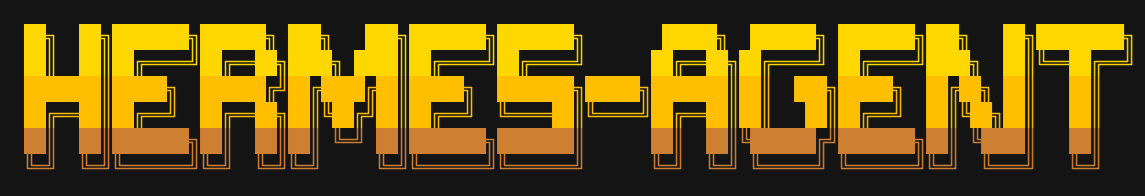
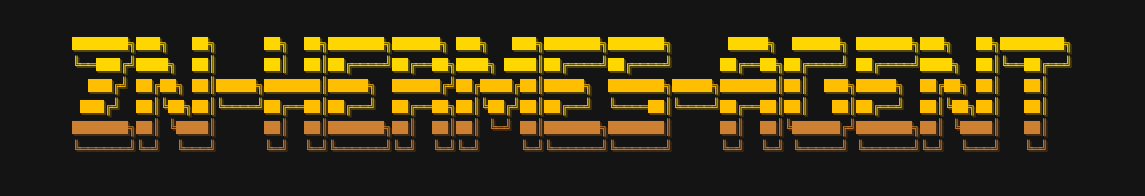
cpq-capstone-1: brand distro as ZN-HERMES-AGENT
---
upstream: null
files:
  - README.md
  - assets/banner.png
  - cli.py
  - hermes_cli/skin_engine.py
  - tests/hermes_cli/test_skin_engine.py
  - tests/test_cli_skin_integration.py
---

## Upstream
- Status: fork-only
- Branding capstone — local-only by design.

## Why carried
- This distro needs its own visible identity and attribution layer above the upstream-bound patch body.
- The README intro should state plainly that ZN-HERMES-AGENT is a personal Hermes Agent distro.
- The top of the README should also advertise whether the fork's GitHub Actions test workflow is green.

## Summary
- Keeps the distro branding layer in `README.md`.
- Rewrites the opening sentence to: `ZN-HERMES-AGENT is my personal Hermes Agent distro.` with links on `my` and `Hermes Agent`.
- Adds a GitHub Actions Tests badge immediately below the README title.
- Moves the distro attribution line to the bottom footer slot.

## Drop condition
- Drop only if this distro stops carrying its own branding.

diff --git a/cli.py b/cli.py
@@ -1629,10 +1629,10 @@ def _build_compact_banner() -> str:
     dim_color = _skin.get_color("banner_dim", "#B8860B") if _skin else "#B8860B"
 
     if skin_name == "default":
-        line1 = "⚕ NOUS HERMES - AI Agent Framework"
-        tiny_line = "⚕ NOUS HERMES"
+        line1 = "⚕ ZN-HERMES-AGENT - Personal distro"
+        tiny_line = "⚕ ZN-HERMES-AGENT"
     else:
-        agent_name = _skin.get_branding("agent_name", "Hermes Agent") if _skin else "Hermes Agent"
+        agent_name = _skin.get_branding("agent_name", "ZN-HERMES-AGENT") if _skin else "ZN-HERMES-AGENT"
         line1 = f"{agent_name} - AI Agent Framework"
         tiny_line = agent_name
 
@@ -2935,10 +2935,10 @@ class HermesCLI:
             try:
                 from hermes_cli.skin_engine import get_active_skin
                 _skin = get_active_skin()
-                label = _skin.get_branding("response_label", "⚕ Hermes")
+                label = _skin.get_branding("response_label", "⚕ ZN-Hermes")
                 _text_hex = _skin.get_color("banner_text", "#FFF8DC")
             except Exception:
-                label = "⚕ Hermes"
+                label = "⚕ ZN-Hermes"
                 _text_hex = "#FFF8DC"
             # Build a true-color ANSI escape for the response text color
             # so streamed content matches the Rich Panel appearance.
@@ -6444,11 +6444,11 @@ class HermesCLI:
                     try:
                         from hermes_cli.skin_engine import get_active_skin
                         _skin = get_active_skin()
-                        label = _skin.get_branding("response_label", "⚕ Hermes")
+                        label = _skin.get_branding("response_label", "⚕ ZN-Hermes")
                         _resp_color = _skin.get_color("response_border", "#CD7F32")
                         _resp_text = _skin.get_color("banner_text", "#FFF8DC")
                     except Exception:
-                        label = "⚕ Hermes"
+                        label = "⚕ ZN-Hermes"
                         _resp_color = "#CD7F32"
                         _resp_text = "#FFF8DC"
 
@@ -8475,7 +8475,7 @@ class HermesCLI:
                     if not _streaming_box_opened:
                         _streaming_box_opened = True
                         w = self.console.width
-                        label = " ⚕ Hermes "
+                        label = " ⚕ ZN-Hermes "
                         fill = w - 2 - len(label)
                         _cprint(f"\n{_ACCENT}╭─{label}{'─' * max(fill - 1, 0)}╮{_RST}")
                     _cprint(f"{_STREAM_PAD}{sentence.rstrip()}")
@@ -8750,11 +8750,11 @@ class HermesCLI:
                 try:
                     from hermes_cli.skin_engine import get_active_skin
                     _skin = get_active_skin()
-                    label = _skin.get_branding("response_label", "⚕ Hermes")
+                    label = _skin.get_branding("response_label", "⚕ ZN-Hermes")
                     _resp_color = _skin.get_color("response_border", "#CD7F32")
                     _resp_text = _skin.get_color("banner_text", "#FFF8DC")
                 except Exception:
-                    label = "⚕ Hermes"
+                    label = "⚕ ZN-Hermes"
                     _resp_color = "#CD7F32"
                     _resp_text = "#FFF8DC"
 
@@ -9111,10 +9111,10 @@ class HermesCLI:
         try:
             from hermes_cli.skin_engine import get_active_skin
             _welcome_skin = get_active_skin()
-            _welcome_text = _welcome_skin.get_branding("welcome", "Welcome to Hermes Agent! Type your message or /help for commands.")
+            _welcome_text = _welcome_skin.get_branding("welcome", "Welcome to ZN-HERMES-AGENT — my personal Hermes distro with a few carried features and fixes I plan to upstream once they get merged. Type your message or /help for commands.")
             _welcome_color = _welcome_skin.get_color("banner_text", "#FFF8DC")
         except Exception:
-            _welcome_text = "Welcome to Hermes Agent! Type your message or /help for commands."
+            _welcome_text = "Welcome to ZN-HERMES-AGENT — my personal Hermes distro with a few carried features and fixes I plan to upstream once they get merged. Type your message or /help for commands."
             _welcome_color = "#FFF8DC"
         self._console_print(f"[{_welcome_color}]{_welcome_text}[/]")
         # Show a random tip to help users discover features

diff --git a/hermes_cli/skin_engine.py b/hermes_cli/skin_engine.py
@@ -67,7 +67,7 @@ All fields are optional. Missing values inherit from the ``default`` skin.
       agent_name: "Hermes Agent"          # Banner title, status display
       welcome: "Welcome message"          # Shown at CLI startup
       goodbye: "Goodbye! ⚕"              # Shown on exit
-      response_label: " ⚕ Hermes "       # Response box header label
+      response_label: " ⚕ ZN-Hermes "    # Response box header label
       prompt_symbol: "❯ "                # Input prompt symbol
       help_header: "(^_^)? Commands"      # /help header text
 
@@ -186,14 +186,20 @@ _BUILTIN_SKINS: Dict[str, Dict[str, Any]] = {
             # Empty = use hardcoded defaults in display.py
         },
         "branding": {
-            "agent_name": "Hermes Agent",
-            "welcome": "Welcome to Hermes Agent! Type your message or /help for commands.",
+            "agent_name": "ZN-HERMES-AGENT",
+            "welcome": "Welcome to ZN-HERMES-AGENT — my personal Hermes distro with a few carried features and fixes I plan to upstream once they get merged. Type your message or /help for commands.",
             "goodbye": "Goodbye! ⚕",
-            "response_label": " ⚕ Hermes ",
+            "response_label": " ⚕ ZN-Hermes ",
             "prompt_symbol": "❯ ",
             "help_header": "(^_^)? Available Commands",
         },
         "tool_prefix": "┊",
+        "banner_logo": """[bold #FFD700]███████╗███╗   ██╗      ██╗  ██╗███████╗██████╗ ███╗   ███╗███████╗███████╗       █████╗  ██████╗ ███████╗███╗   ██╗████████╗[/]
+[bold #FFD700]╚══███╔╝████╗  ██║      ██║  ██║██╔════╝██╔══██╗████╗ ████║██╔════╝██╔════╝      ██╔══██╗██╔════╝ ██╔════╝████╗  ██║╚══██╔══╝[/]
+[#FFBF00]  ███╔╝ ██╔██╗ ██║█████╗███████║█████╗  ██████╔╝██╔████╔██║█████╗  ███████╗█████╗███████║██║  ███╗█████╗  ██╔██╗ ██║   ██║[/]
+[#FFBF00] ███╔╝  ██║╚██╗██║╚════╝██╔══██║██╔══╝  ██╔══██╗██║╚██╔╝██║██╔══╝  ╚════██║╚════╝██╔══██║██║   ██║██╔══╝  ██║╚██╗██║   ██║[/]
+[#CD7F32]███████╗██║ ╚████║      ██║  ██║███████╗██║  ██║██║ ╚═╝ ██║███████╗███████║      ██║  ██║╚██████╔╝███████╗██║ ╚████║   ██║[/]
+[#CD7F32]╚══════╝╚═╝  ╚═══╝      ╚═╝  ╚═╝╚══════╝╚═╝  ╚═╝╚═╝     ╚═╝╚══════╝╚══════╝      ╚═╝  ╚═╝ ╚═════╝ ╚══════╝╚═╝  ╚═══╝   ╚═╝[/]""",
     },
     "ares": {
         "name": "ares",

diff --git a/tests/test_cli_skin_integration.py b/tests/test_cli_skin_integration.py
@@ -92,14 +92,15 @@ class TestCliSkinPromptIntegration:
 
 
 class TestCompactBannerSkinIntegration:
-    def test_default_compact_banner_keeps_legacy_nous_hermes_branding(self):
+    def test_default_compact_banner_uses_default_skin_branding(self):
         set_active_skin("default")
 
         with patch("cli.shutil.get_terminal_size", return_value=SimpleNamespace(columns=90)), \
              patch("cli.format_banner_version_label", return_value="Hermes Agent v0.1.0 (test)"):
             banner = _build_compact_banner()
 
-        assert "NOUS HERMES" in banner
+        assert "ZN-HERMES-AGENT" in banner
+        assert "NOUS HERMES" not in banner
 
     def test_poseidon_compact_banner_uses_skin_branding_instead_of_nous_hermes(self):
         set_active_skin("poseidon")

diff --git a/tests/hermes_cli/test_skin_engine.py b/tests/hermes_cli/test_skin_engine.py
@@ -37,7 +37,7 @@ class TestSkinConfig:
     def test_get_branding_with_fallback(self):
         from hermes_cli.skin_engine import load_skin
         skin = load_skin("default")
-        assert skin.get_branding("agent_name") == "Hermes Agent"
+        assert skin.get_branding("agent_name") == "ZN-HERMES-AGENT"
         assert skin.get_branding("nonexistent", "fallback") == "fallback"
 
     def test_get_spinner_wings_empty_for_default(self):

diff --git a/README.md b/README.md
@@ -1,17 +1,21 @@
 <p align="center">
-  <img src="assets/banner.png" alt="Hermes Agent" width="100%">
+  <img src="assets/banner.png" alt="ZN-HERMES-AGENT" width="100%">
 </p>
 
-# Hermes Agent ☤
+# ZN-HERMES-AGENT ☤
+
+[![Tests](https://github.com/xinbenlv/hermes-agent/actions/workflows/tests.yml/badge.svg?branch=main)](https://github.com/xinbenlv/hermes-agent/actions/workflows/tests.yml)
 
 <p align="center">
   <a href="https://hermes-agent.nousresearch.com/docs/"><img src="https://img.shields.io/badge/Docs-hermes--agent.nousresearch.com-FFD700?style=for-the-badge" alt="Documentation"></a>
   <a href="https://discord.gg/NousResearch"><img src="https://img.shields.io/badge/Discord-5865F2?style=for-the-badge&logo=discord&logoColor=white" alt="Discord"></a>
   <a href="https://github.com/NousResearch/hermes-agent/blob/main/LICENSE"><img src="https://img.shields.io/badge/License-MIT-green?style=for-the-badge" alt="License: MIT"></a>
-  <a href="https://nousresearch.com"><img src="https://img.shields.io/badge/Built%20by-Nous%20Research-blueviolet?style=for-the-badge" alt="Built by Nous Research"></a>
+  <a href="https://github.com/xinbenlv"><img src="https://img.shields.io/badge/Distro%20compiled%20by-Zainan%20Victor%20Zhou-blueviolet?style=for-the-badge" alt="Distro compiled by Zainan Victor Zhou, based on Hermes Agent built by Nous Research"></a>
 </p>
 
-**The self-improving AI agent built by [Nous Research](https://nousresearch.com).** It's the only agent with a built-in learning loop — it creates skills from experience, improves them during use, nudges itself to persist knowledge, searches its own past conversations, and builds a deepening model of who you are across sessions. Run it on a $5 VPS, a GPU cluster, or serverless infrastructure that costs nearly nothing when idle. It's not tied to your laptop — talk to it from Telegram while it works on a cloud VM.
+**ZN-HERMES-AGENT** is [my](https://zzn.im/?referrer=https://github.com/xinbenlv/zn-hermes-agent) personal [Hermes Agent](https://github.com/NousResearch/hermes-agent) distro.
+
+It creates skills from experience, improves them during use, nudges itself to persist knowledge, searches its own past conversations, and builds a deepening model of who you are across sessions. Run it on a $5 VPS, a GPU cluster, or serverless infrastructure that costs nearly nothing when idle. It's not tied to your laptop — talk to it from Telegram while it works on a cloud VM.
 
 Use any model you want — [Nous Portal](https://portal.nousresearch.com), [OpenRouter](https://openrouter.ai) (200+ models), [NVIDIA NIM](https://build.nvidia.com) (Nemotron), [Xiaomi MiMo](https://platform.xiaomimimo.com), [z.ai/GLM](https://z.ai), [Kimi/Moonshot](https://platform.moonshot.ai), [MiniMax](https://www.minimax.io), [Hugging Face](https://huggingface.co), OpenAI, or your own endpoint. Switch with `hermes model` — no code changes, no lock-in.
 
@@ -177,4 +181,4 @@ scripts/run_tests.sh
 
 MIT — see [LICENSE](LICENSE).
 
-Built by [Nous Research](https://nousresearch.com).
+Distro compiled by [Zainan Victor Zhou](https://github.com/xinbenlv), based on [Hermes Agent](https://github.com/NousResearch/hermes-agent) built by [Nous Research](https://nousresearch.com).